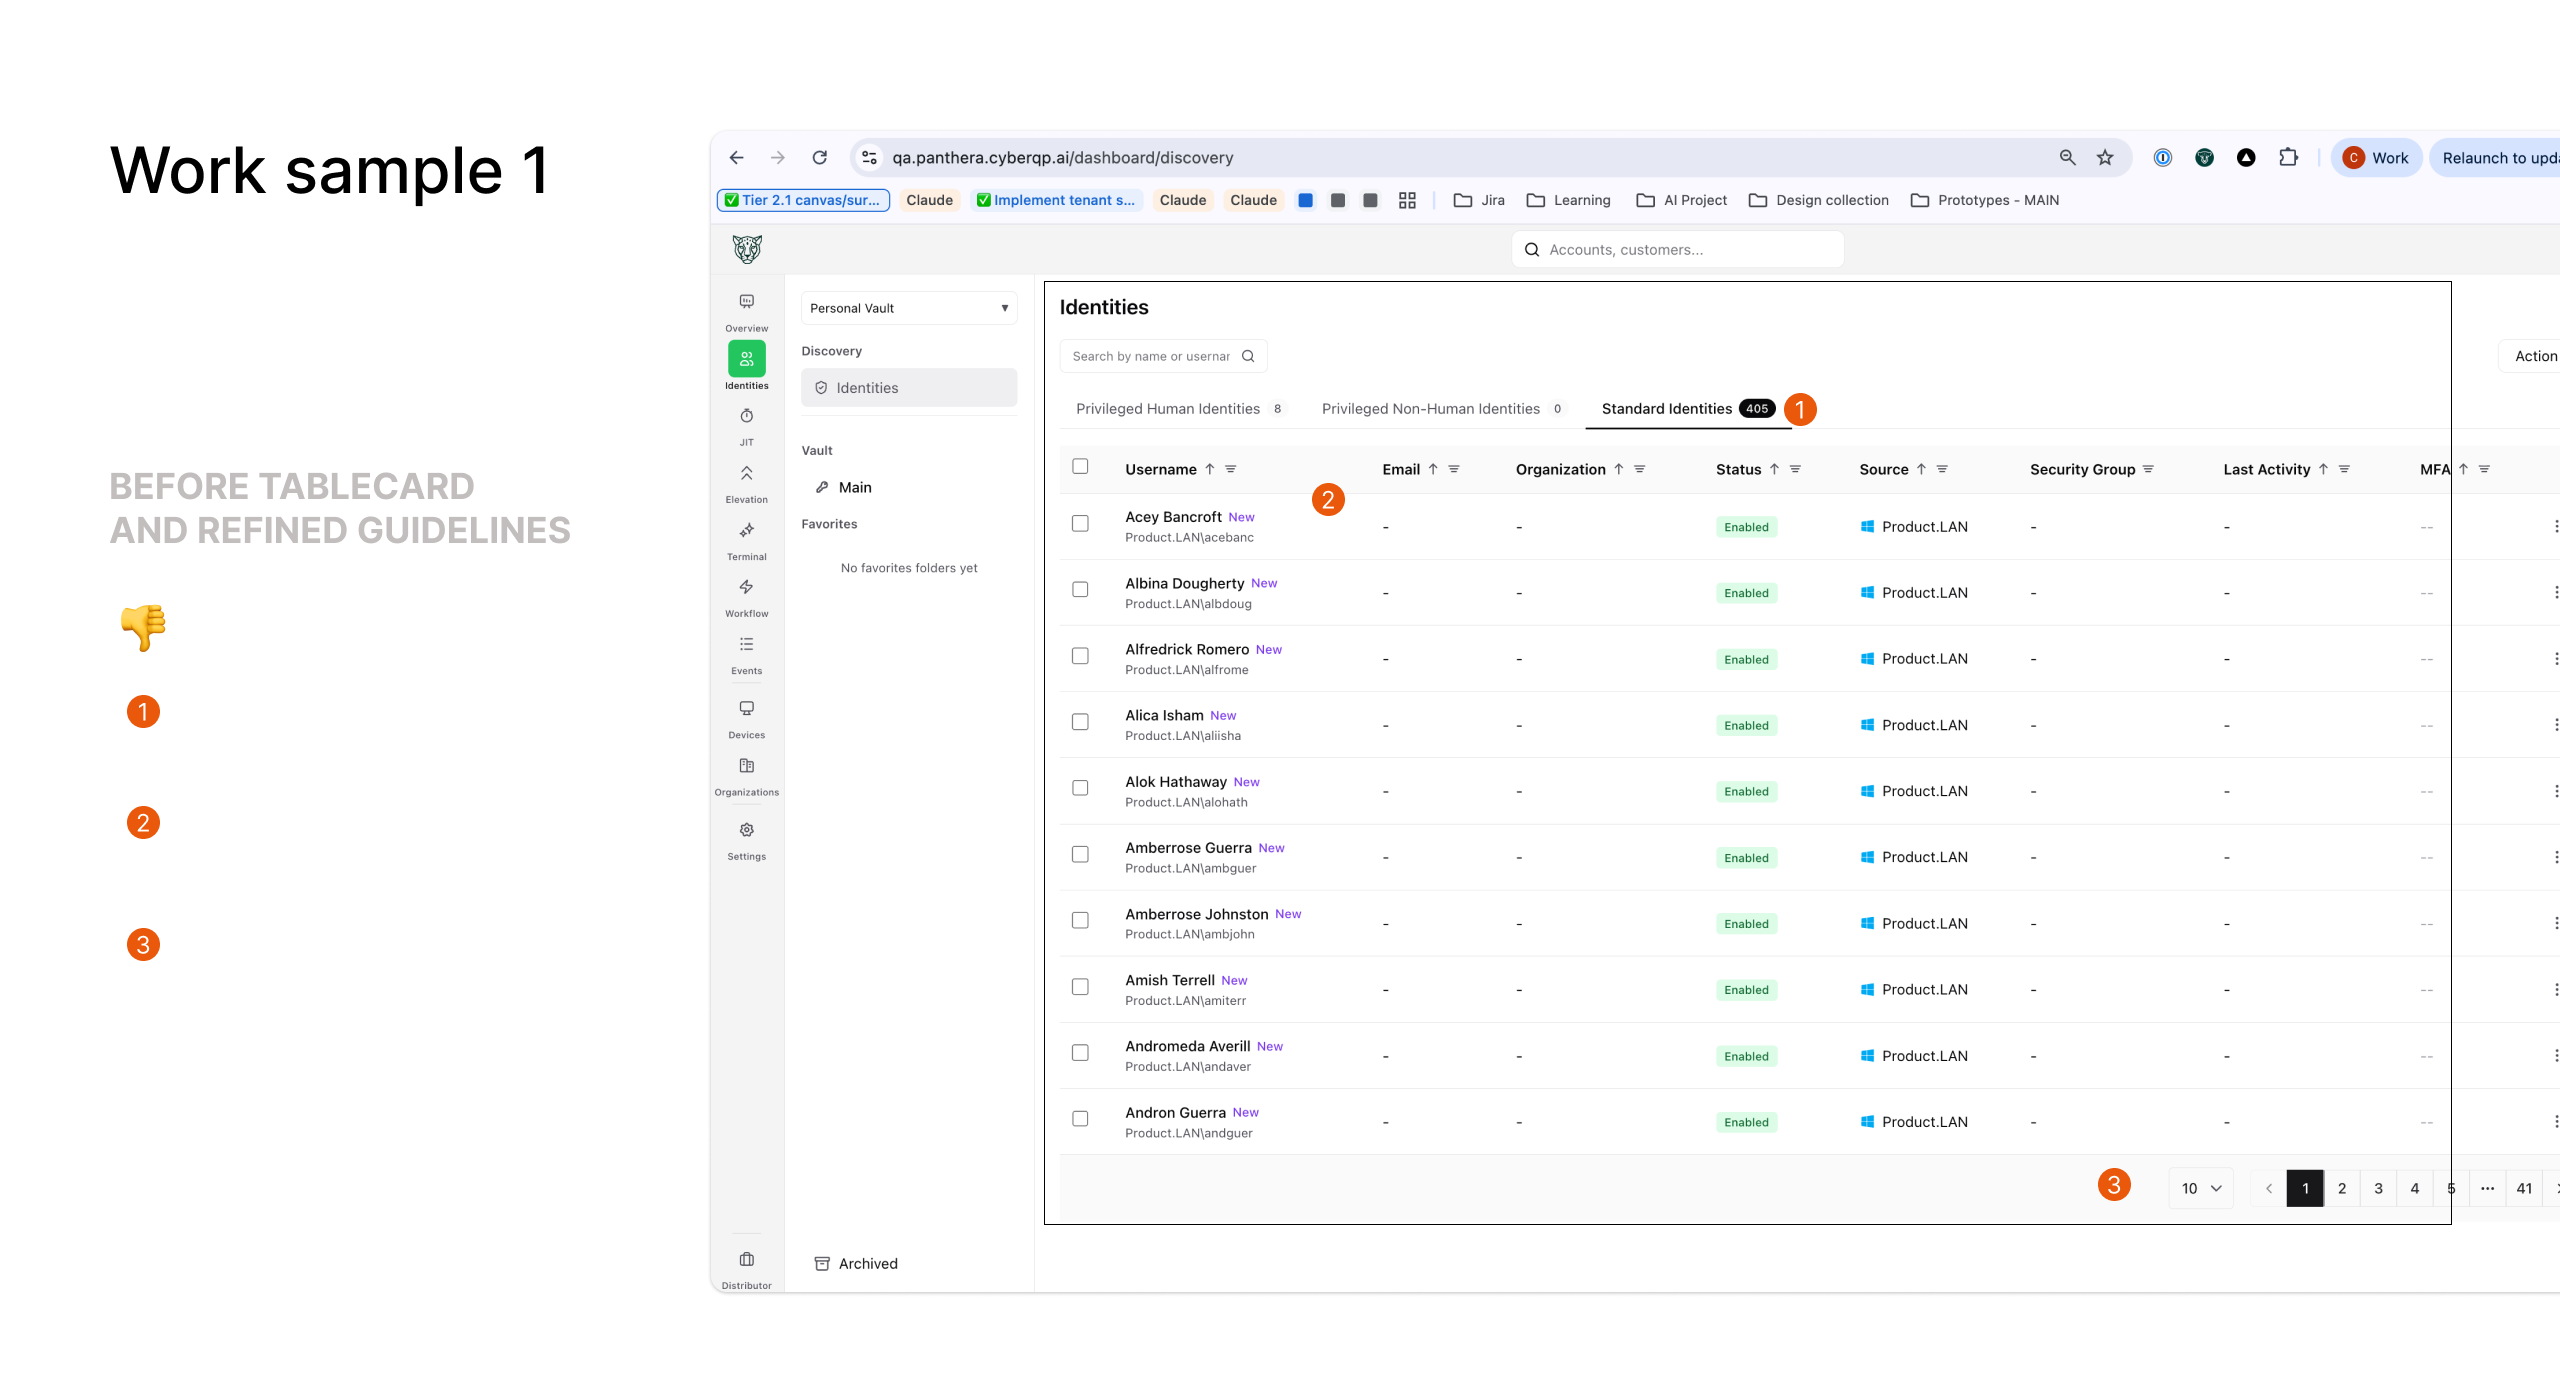
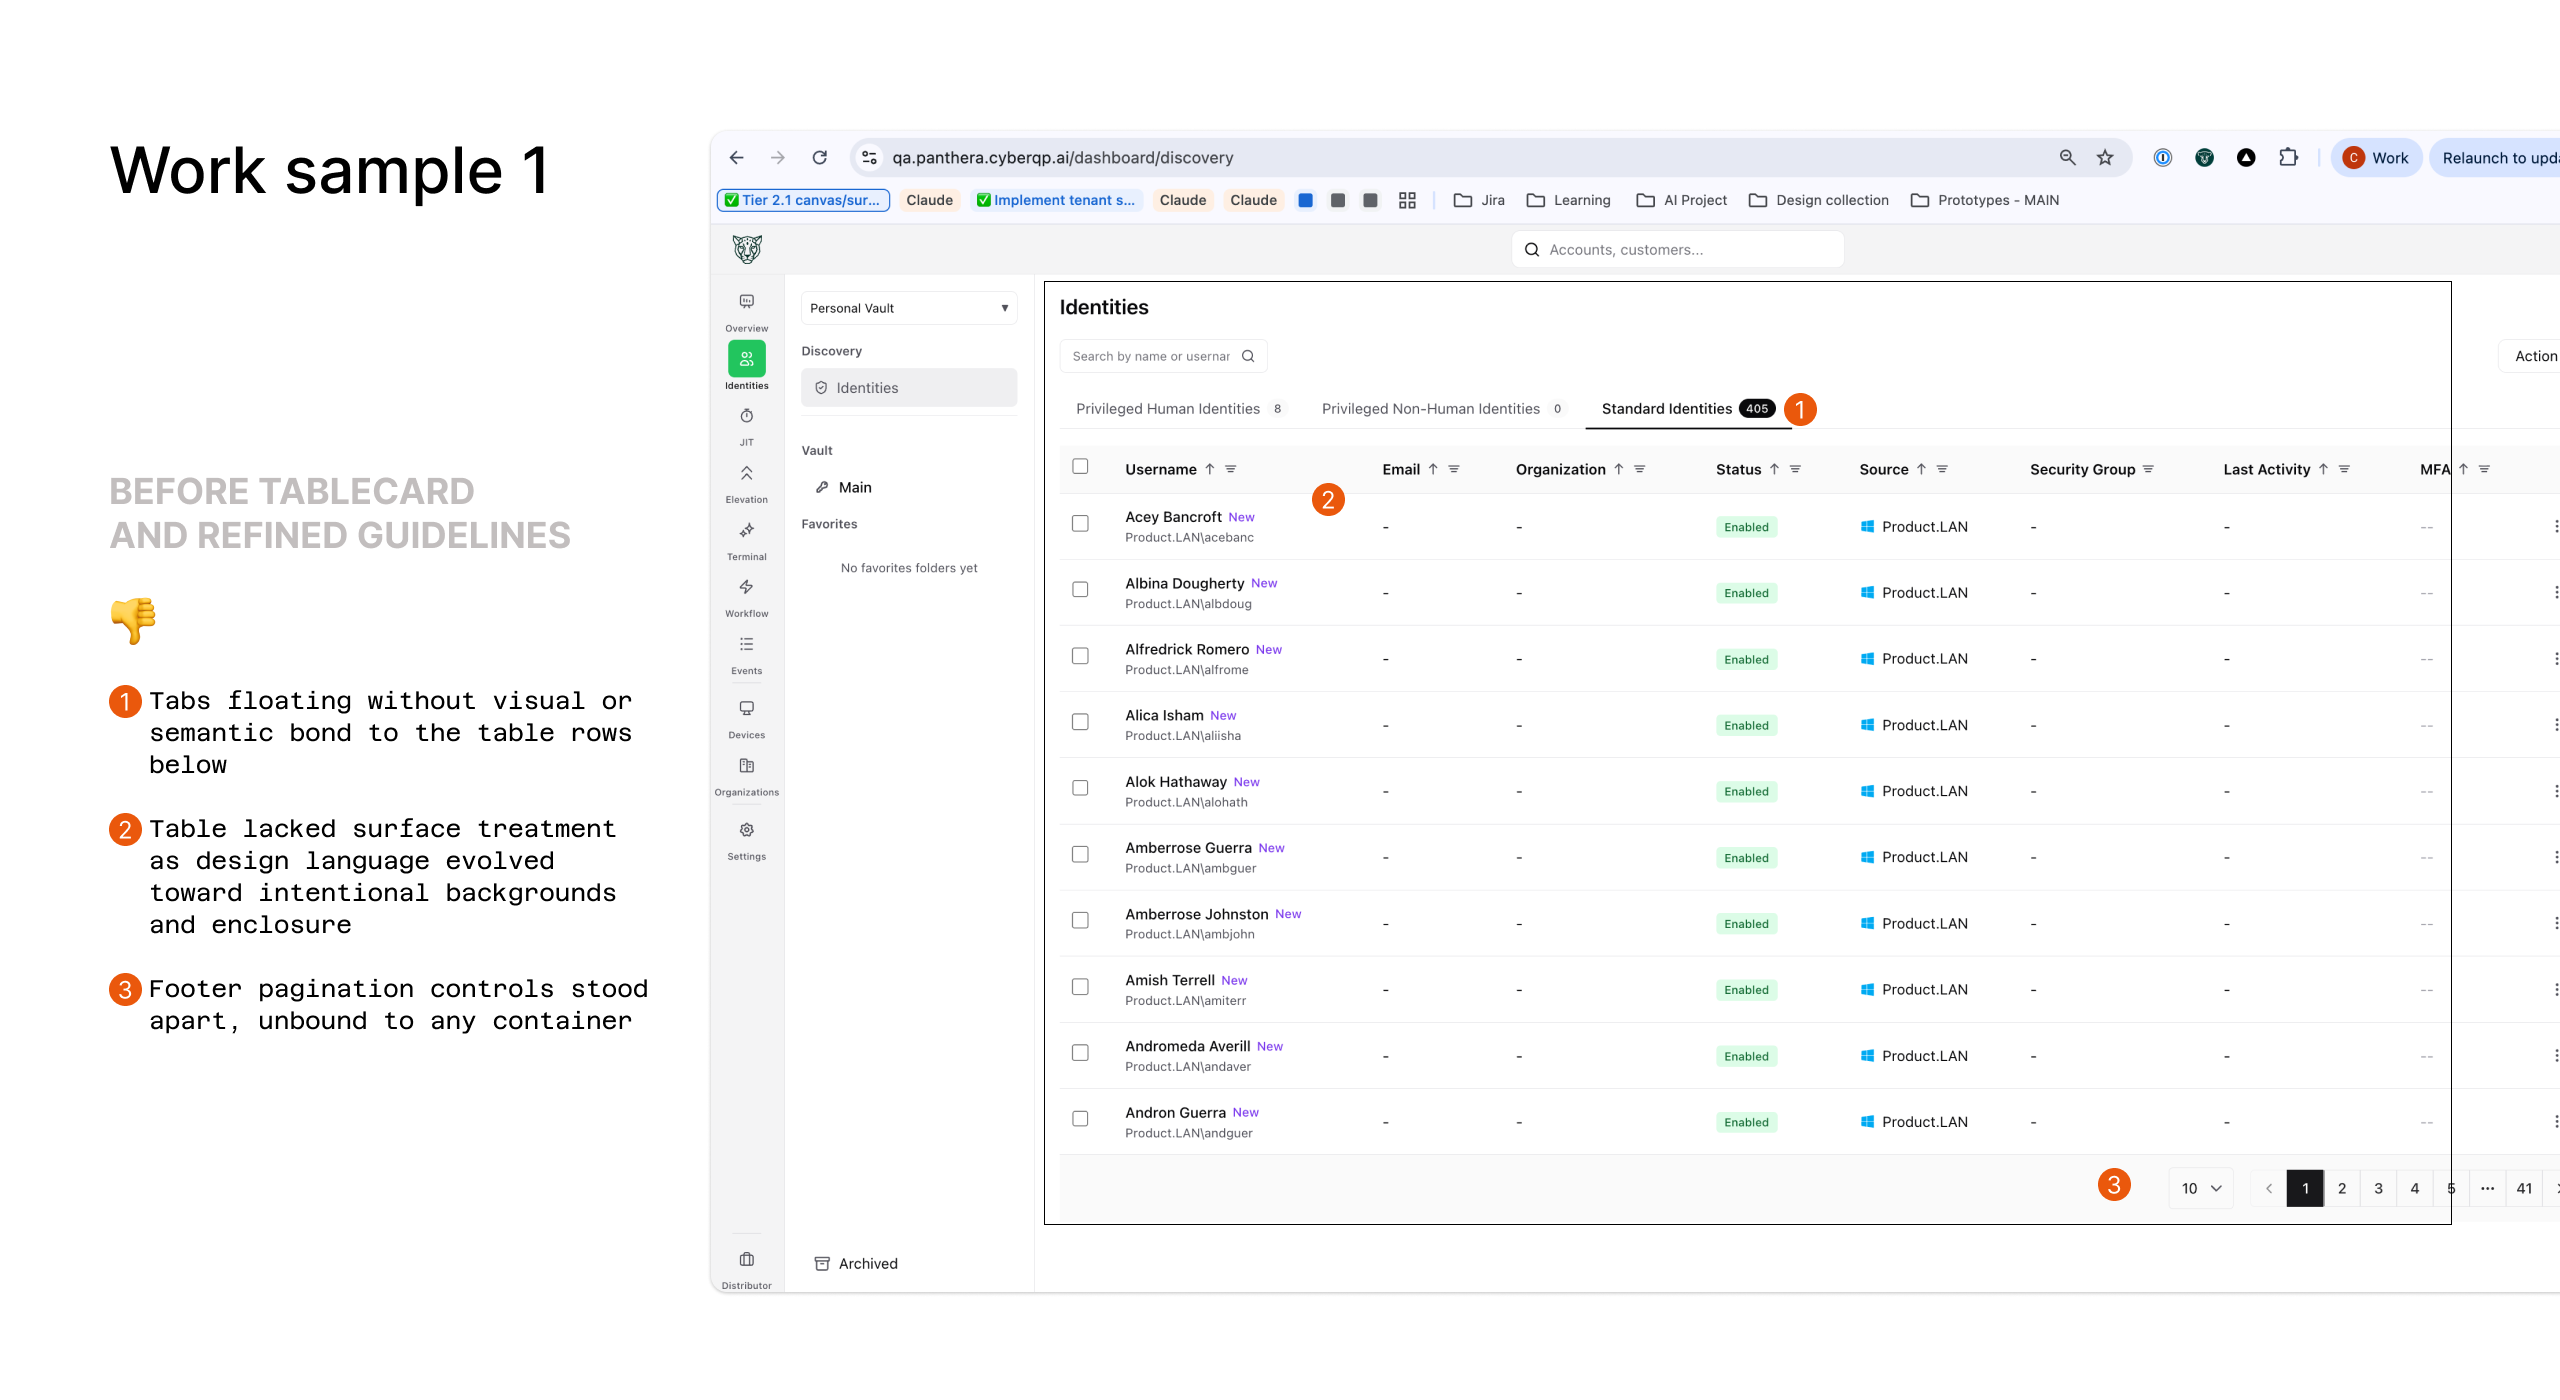
fix(bluej): deck scrolling in the theme modal, plus new TableCard slides
Rail clicks never moved the deck. focusDetail refocused the scroll box
right after starting a smooth scrollIntoView, and on a real mouse click
that is a genuine focus change, so Chrome's scroll-on-focus cancelled the
animation a frame in. Both focus calls now pass preventScroll.

Code-first design could not scroll at all. Its four items were top-level
leaves, and a leaf becomes its own deck, so every pane held a single
slide with scrollHeight equal to clientHeight. A theme whose items are
all leaves now collapses into one headless parent, reusing the sub-item
path that already provides one deck, scrollspy, and the rail progress
bar. Themes with real parent groupings are untouched.

Work sample 1 gains a fifth slide on the frontend developer agent, its
other four slides are re-exported, and the CyberQP rail items are renamed
to match the titles baked into the slides.

diff --git a/src/app/bluej-custom-pitch/page.tsx b/src/app/bluej-custom-pitch/page.tsx
@@ -108,29 +108,33 @@ const THEMES: Theme[] = [
                 ],
               },
               {
-                label: 'Adding TableCard component',
-                desc: 'One enclosing surface for tabs, table, and pagination, before and after.',
+                label: 'Work sample 1',
+                desc: 'One enclosing surface for tabs, table, and pagination, from the drift through to the docs the agent reads.',
                 images: [
                   {
                     src: '/bluej/ds-tablecard-1.png',
-                    alt: 'Work sample 1, before TableCard and refined guidelines: the identities screen with tabs, table, and footer pagination marked one, two, and three as three unbounded components',
+                    alt: 'Work sample 1, before TableCard and refined guidelines: the CyberQP identities screen with three problems marked, tabs floating without a visual or semantic bond to the rows below, a table left without surface treatment as the design language moved toward intentional backgrounds and enclosure, and footer pagination controls standing apart, unbound to any container',
                   },
                   {
                     src: '/bluej/ds-tablecard-2.png',
-                    alt: 'After the TableCard definition: the same identities table with tabs, rows, and pagination bound inside one enclosed surface',
+                    alt: 'TableCard, a surface component that bounds a filterable table alongside its tabs, footer, and supporting UI into one enclosed context: after the definition, the same identities table has its three disconnected pieces unified under one intentional surface, with consistent edge treatment and semantic hierarchy',
                   },
                   {
                     src: '/bluej/ds-tablecard-3.png',
-                    alt: 'Behind the scenes working artifact: canvas annotations on pagination height, page-selector state, and border-radius inconsistencies, captioned about iterating with engineering in the loop on high-impact components',
+                    alt: 'Behind the scenes working artifact: annotations over the identities table calling out the height of the pagination section, a height mismatch between the row-count and page-count components, an active page state wrongly borrowing the primary button treatment, and inconsistent border radius and background on the row selector, beside a TablePagination component screenshot, captioned about iteratively building, testing, and annotating alongside engineering so the feedback loop runs live rather than after implementation',
                   },
                   {
                     src: '/bluej/ds-tablecard-4.png',
-                    alt: 'Final output: the new TableCard configuration in Storybook with header slot, untabbed, footer slot, and page pattern variants, added alongside a decision log and product context',
+                    alt: 'Final output: TableCard documented in Storybook with all variants, header and footer slot options, and a decision log so the team can build against it without opening Figma, showing the docs page for the TableCard component with its D-028 decision reference beside the untabbed, header slot, footer slot, and page pattern stories',
+                  },
+                  {
+                    src: '/bluej/ds-tablecard-5.png',
+                    alt: 'Improving the frontend developer agent: component guidelines, the decision log, and product context feed into frontend-developer.md, live files a frontend developer subagent consumes so every component the agent touches inherits the system\u2019s rules automatically',
                   },
                 ],
               },
               {
-                label: 'Addressing frontend drift',
+                label: 'Work sample 2',
                 desc: 'Catching drift in an audit, fixing it before it shipped, then closing the gap in the guidelines.',
                 images: [
                   {
@@ -152,7 +156,7 @@ const THEMES: Theme[] = [
                 ],
               },
               {
-                label: 'Simplifying organization list',
+                label: 'Work sample 3',
                 desc: 'Enhancing the menu list item component so organization sync reads on both sides.',
                 images: [
                   {
@@ -795,11 +799,50 @@ function Deck({ frames }: { frames: DeckFrame[] }) {
   )
 }
 
+function itemSlot(item: ThemeItem): ThemeSlot {
+  return {
+    label: item.label,
+    desc: item.desc ?? '',
+    wide: item.wide,
+    images: item.images,
+  }
+}
+
+/* A theme whose items are ALL leaves reads as one continuous set of samples
+   rather than separate stories, so it collapses into a single headless
+   parent and its items become that parent's children. That puts them in ONE
+   deck the reader can scroll end to end, with the rail tracking position.
+   Left as separate leaves they'd each be their own deck, and a leaf holding
+   a single slide makes a pane that cannot scroll at all. */
+function isFlatLeafTheme(theme: Theme): boolean {
+  const items = theme.groups.flatMap((group) => group.items)
+  return items.length > 1 && items.every((item) => !item.subItems)
+}
+
 /* Builds the rail's group/item/subItem tree once per theme, assigning each
    leaf a stable slugged anchor id and a running tilt index (so alternating
    tilt continues across items and groups, not just within one). */
 function buildRailGroups(theme: Theme): { nodes: RailNode[] }[] {
   let tiltIndex = 0
+  if (isFlatLeafTheme(theme)) {
+    return [
+      {
+        nodes: [
+          {
+            label: theme.title,
+            children: theme.groups
+              .flatMap((group) => group.items)
+              .map((item) => ({
+                id: `${theme.id}-${slug(item.label)}`,
+                label: item.label,
+                slot: itemSlot(item),
+                tilt: tiltIndex++,
+              })),
+          },
+        ],
+      },
+    ]
+  }
   return theme.groups.map((group) => ({
     nodes: group.items.map((item): RailNode => {
       if (item.subItems) {
@@ -818,12 +861,7 @@ function buildRailGroups(theme: Theme): { nodes: RailNode[] }[] {
         leaf: {
           id: `${theme.id}-${slug(item.label)}`,
           label: item.label,
-          slot: {
-            label: item.label,
-            desc: item.desc ?? '',
-            wide: item.wide,
-            images: item.images,
-          },
+          slot: itemSlot(item),
           tilt: tiltIndex++,
         },
       }
@@ -928,7 +966,11 @@ function ThemeModal({
     requestAnimationFrame(() => {
       scrollRef.current
         ?.querySelector<HTMLElement>('.cs-tmodal-detail-title')
-        ?.focus()
+        /* preventScroll is load-bearing: on a real click, focus sits on the
+           rail button, so focusing the deck box is a genuine focus change and
+           Chrome's scroll-on-focus would cancel the deck's smooth scroll the
+           frame after it starts. */
+        ?.focus({ preventScroll: true })
     })
   }
 
@@ -1037,7 +1079,7 @@ function ThemeModal({
      component: per-modal cleanup would race when hopping prev/next themes,
      since the exiting modal unmounts after the next one mounts. */
   useEffect(() => {
-    closeRef.current?.focus()
+    closeRef.current?.focus({ preventScroll: true })
 
     const onKey = (e: KeyboardEvent) => {
       if (e.key === 'Escape') {

diff --git a/src/styles/case-study.css b/src/styles/case-study.css
@@ -1988,7 +1988,7 @@ html[data-mode='read'] .site-footer .site-footer-word + .site-footer-word::befor
   color: var(--cs-ink);
   /* The unfilled remainder of the track. Without it a 25% fill reads as a
      stray dash rather than "one of four". */
-  border-left-color: rgba(171, 7, 130, 0.22);
+  border-left-color: rgba(171, 7, 130, 0.3);
 }
 
 
@@ -2239,7 +2239,7 @@ html[data-mode='read'] .cs-page .cs-tmodal-frame {
 
   .cs-page .cs-tmodal-rail-item-sub.is-active {
     border-left-color: transparent;
-    border-bottom-color: rgba(171, 7, 130, 0.22);
+    border-bottom-color: rgba(171, 7, 130, 0.3);
   }
 
   /* Groups flow inline on the horizontal strip. */
